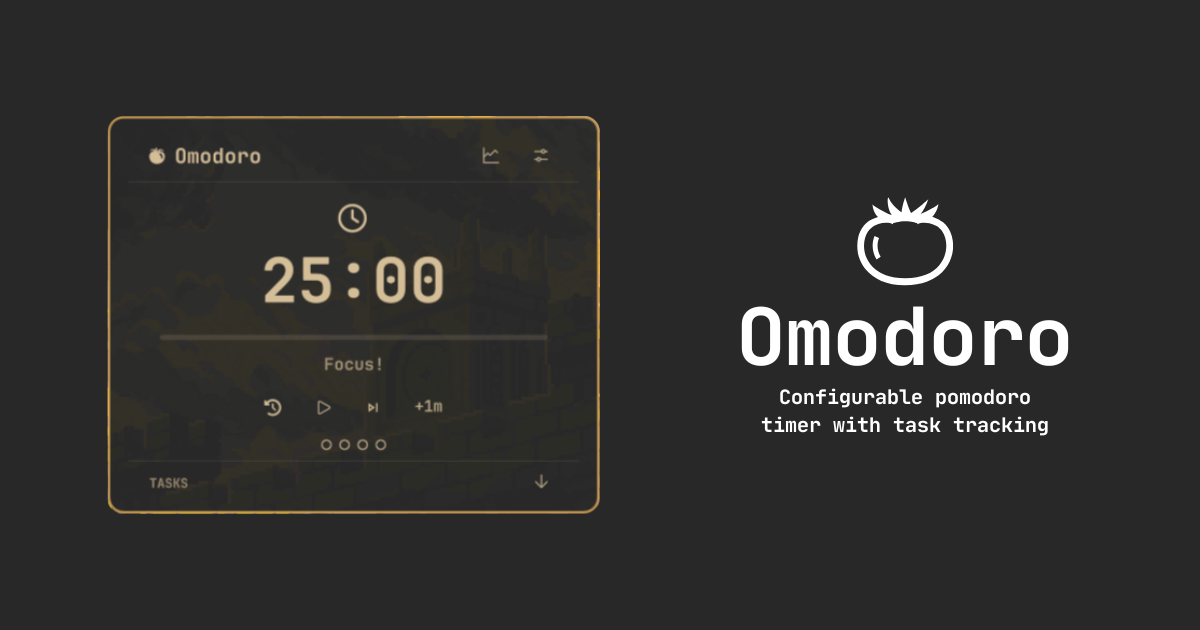
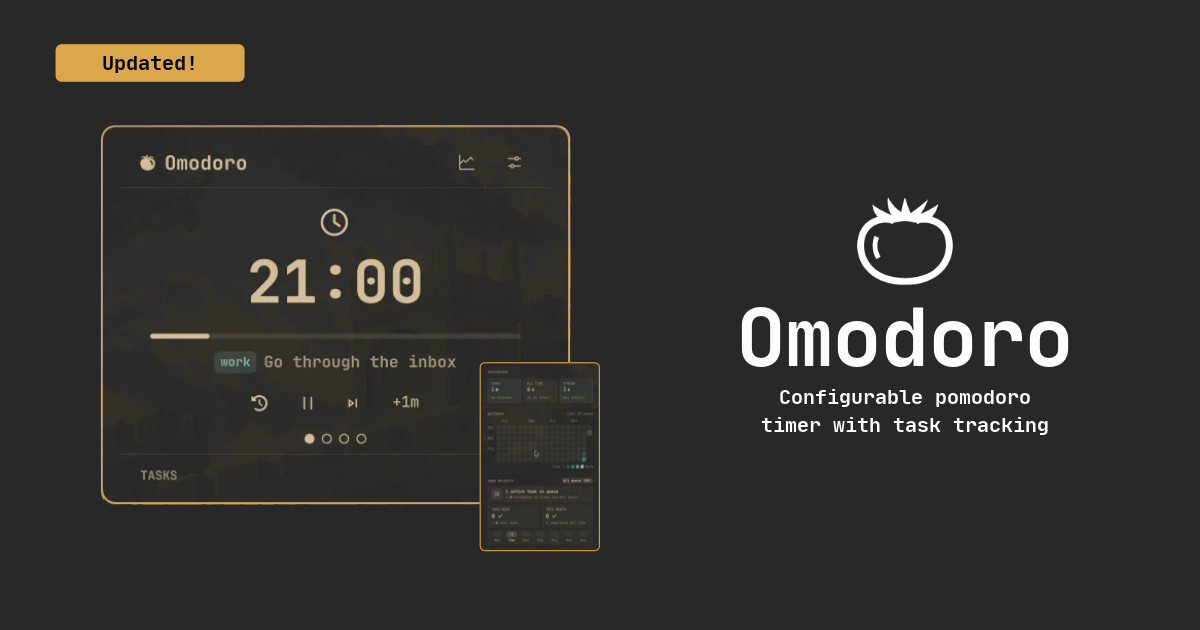
Add pomodoro estimation controls, update preview, readme and manifest version

diff --git a/Panel.qml b/Panel.qml
@@ -376,7 +376,7 @@ Panel {
                 anchors.verticalCenter: parent.verticalCenter
               }
             }
-
+            // drawer toggle button
             Button {
               anchors.right: parent.right
               anchors.rightMargin: Style.space(12)
@@ -432,7 +432,7 @@ Panel {
                     id: dragArea
                     anchors.fill: parent
                     anchors.leftMargin: Style.space(36)
-                    anchors.rightMargin: Style.space(76)
+                    anchors.rightMargin: Style.space(12) + taskDecBtn.width + taskIncBtn.width + taskDelBtn.width + taskRow.spacing * 3
                     hoverEnabled: true
                     cursorShape: drag.active ? Qt.ClosedHandCursor : Qt.OpenHandCursor
                     drag.target: taskRowWrapper
@@ -474,6 +474,7 @@ Panel {
                     spacing: Style.space(6)
 
                     Text {
+                      id: dragHandle
                       text: "⠿"
                       color: root.bar ? Qt.darker(root.bar.foreground, 1.5) : Color.muted
                       font.family: root.bar ? root.bar.fontFamily : Style.font.family
@@ -526,7 +527,7 @@ Panel {
                       elide: Text.ElideRight
                       width: Math.max(
                         Style.space(40),
-                        parent.width - taskDoneBtn.width - (taskTagPill.visible ? taskTagPill.width + parent.spacing : 0) - taskProgress.width - taskIncBtn.width - taskDelBtn.width - Style.space(18) - parent.spacing * 5
+                        parent.width - dragHandle.width - taskDoneBtn.width - (taskTagPill.visible ? taskTagPill.width + parent.spacing : 0) - taskProgress.width - taskDecBtn.width - taskIncBtn.width - taskDelBtn.width - parent.spacing * 6
                       )
                       anchors.verticalCenter: parent.verticalCenter
                     }
@@ -544,12 +545,22 @@ Panel {
                     }
 
                     PanelActionButton {
-                      id: taskIncBtn
-                      iconText: "\uf067"
-                      tooltipText: "Log +1 pomodoro"
+                      id: taskDecBtn
+                      iconText: "\uf068"
+                      tooltipText: "Decrease estimate"
+                      enabled: estimated > 1
                       foreground: root.bar ? root.bar.foreground : Color.foreground
                       anchors.verticalCenter: parent.verticalCenter
-                      onClicked: root.service.incrementTask(index)
+                      onClicked: root.service.adjustTaskEstimate(index, -1)
+                    }
+
+                    PanelActionButton {
+                      id: taskIncBtn
+                      iconText: "\uf067"
+                      tooltipText: "Increase estimate"
+                      foreground: root.bar ? root.bar.foreground : Color.foreground
+                      anchors.verticalCenter: parent.verticalCenter
+                      onClicked: root.service.adjustTaskEstimate(index, 1)
                     }
 
                     PanelActionButton {
@@ -588,7 +599,7 @@ Panel {
                 TextField {
                   id: taskNameField
                   width: parent.width - taskEstField.width - addTaskBtn.width - parent.spacing * 3
-                  placeholderText: "New task... (e.g. #dev Fix bug)"
+                  placeholderText: "New task (e.g. #dev Fix bug)"
                   foreground: root.bar ? root.bar.foreground : Color.foreground
                   Keys.onReturnPressed: {
                     root.service.addTask(taskNameField.text, taskEstField.value)

diff --git a/Service.qml b/Service.qml
@@ -668,6 +668,31 @@ Item {
     }
     }
 
+    function adjustTaskEstimate(index, delta) {
+    if (index >= 0 && index < taskModel.count) {
+        var item = taskModel.get(index)
+        var prevEstimated = item.estimated || 1
+        var nextEstimated = Math.max(1, prevEstimated + (delta || 0))
+        if (nextEstimated === prevEstimated) return
+
+        var comp = item.completed || 0
+        taskModel.setProperty(index, "estimated", nextEstimated)
+
+        if (!item.done && comp > 0 && comp >= nextEstimated) {
+            taskModel.setProperty(index, "done", true)
+            taskModel.setProperty(index, "completedAt", todayString())
+        } else if (item.done && comp >= prevEstimated && comp < nextEstimated) {
+            taskModel.setProperty(index, "done", false)
+            taskModel.setProperty(index, "completedAt", "")
+        }
+
+        syncTaskToHistory(taskModel.get(index))
+        root.updateCurrentTask()
+        root.historyRevision += 1
+        saveState()
+    }
+    }
+
     function incrementTask(index, minsOverride) {
     if (index >= 0 && index < taskModel.count) {
         var item = taskModel.get(index)

diff --git a/README.md b/README.md
@@ -8,10 +8,16 @@ Pomodoro technique timer and task tracker [quickshell](https://quickshell.org/) 
 
 ## Features
 - Create goals for your pomodoro sessions and track progress
-- View your stats
+- Group tasks via tags:
+
+    when creating a new task add `#tag` to it's name 
+
+- Track your progress with stats:
+    - Activity in an 18-week timeframe
+    - Task completion
+    - Focus-Task distribution (by task and by tag)
 - Choose between presets or create your own
 - Customizable work/short break/long break intervals 
-- Track your progress with stats
 - Enable/disable notifications if you need them
 - Enable/disable sound, with a choice of alert sound for work/break transitions and an optional ticking clock while a session runs
 - A small .json persistence file to preserve the stats, config and tasks
